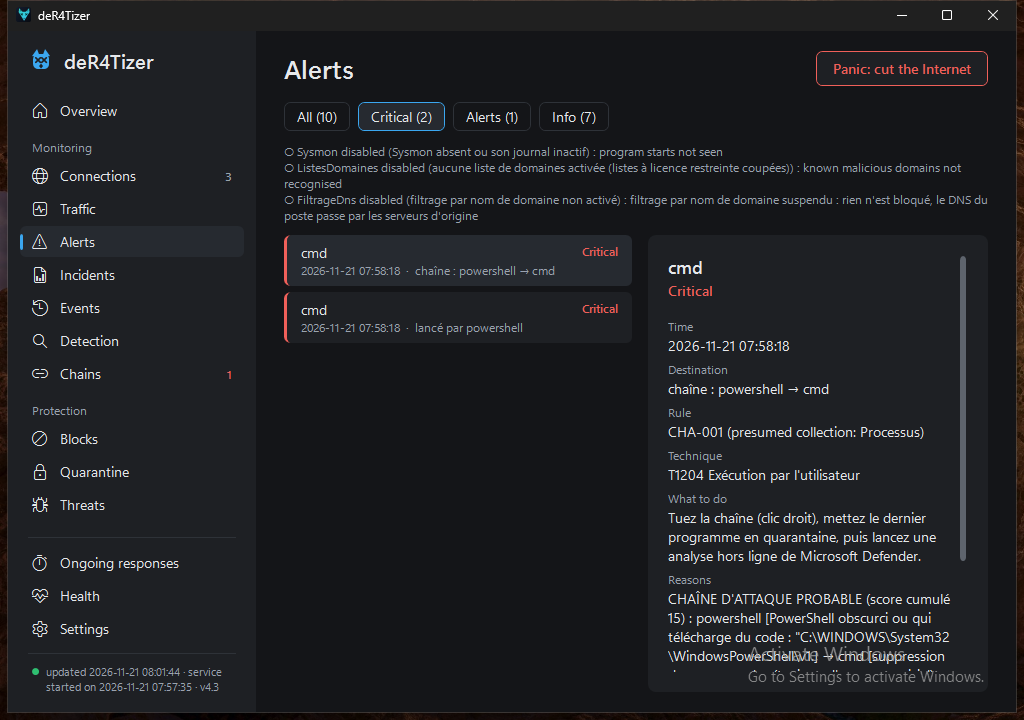
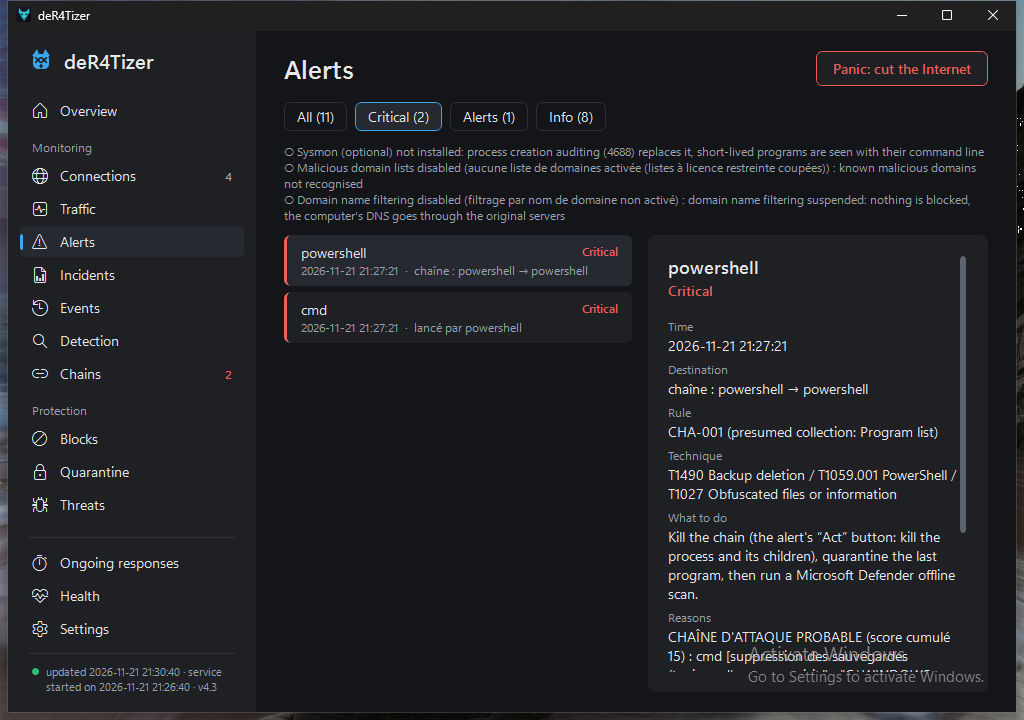
Page : captures refaites le 2026-11-22 (techniques ATT&CK tirées de la règle, processus lus dans le journal d'audit 4688), texte de la visite et des capacités mis à jour

diff --git a/index.html b/index.html
@@ -290,7 +290,7 @@
 
       <div class="hero-shot">
         <button class="win" type="button" data-zoom="images/interface-en-vue-d-ensemble.png" aria-label="Enlarge the Overview screenshot">
-          <img src="images/interface-en-vue-d-ensemble.png" width="1024" height="720" alt="Overview page of deR4Tizer: a banner reading “Nothing confirmed, 4 points to watch”, tiles for 10 alerts, 1 chain, 12% of security settings applied and 2 autostart entries, and the items in order.">
+          <img src="images/interface-en-vue-d-ensemble.png" width="1024" height="720" alt="Overview page of deR4Tizer: a banner reading “Nothing confirmed, 4 points to watch”, tiles for 11 alerts, 2 chains, 12% of security settings applied and 2 autostart entries, and the items in order, processes read from the Windows audit log (event 4688).">
         </button>
       </div>
     </div>
@@ -311,7 +311,7 @@
     <div class="wrap">
       <p class="eyebrow">The interface</p>
       <h2>Written for the person who is not a security analyst</h2>
-      <p class="section-lead">Real screenshots of the current interface, taken on 2026-11-21 in the test VM (Windows 11, not activated, hence the watermark; Microsoft Defender on; no security baseline applied), after a harmless demo attack. Some texts that come from the service are still in French. Select one to enlarge it.</p>
+      <p class="section-lead">Real screenshots of the current interface, taken on 2026-11-22 in the test VM (Windows 11, not activated, hence the watermark; Microsoft Defender on; only the logging profile of the security baseline, which the service applies by itself), after a harmless demo attack. Some texts that come from the service are still in French. Select one to enlarge it.</p>
 
       <div class="tour">
         <div class="row">
@@ -341,7 +341,7 @@
           <div>
             <p class="n">02 · Alerts</p>
             <h3>An alert says what happened and what to do</h3>
-            <p>Each alert names its rule, the MITRE ATT&amp;CK technique and the reasons behind it, then gives advice in plain words.</p>
+            <p>Each alert names its rule, the MITRE ATT&amp;CK techniques that this rule covers (an attack chain carries those of its own steps) and the reasons behind it, then gives advice in plain words.</p>
             <ul class="ticks">
               <li>Only the responses that apply to this alert are offered.</li>
               <li>Critical alerts go to your IT provider by ntfy, Teams or e-mail.</li>
@@ -394,6 +394,7 @@
           <ul>
             <li>Process tree with a cumulative score per chain</li>
             <li>Obfuscated PowerShell, mapped to MITRE ATT&amp;CK techniques</li>
+            <li>Without Sysmon, process creations are read from the Windows audit log (event 4688), so even short-lived programs are seen with their command line</li>
             <li>Run keys, services, scheduled tasks, WMI and Startup folders: any new or changed entry</li>
           </ul>
         </div>
